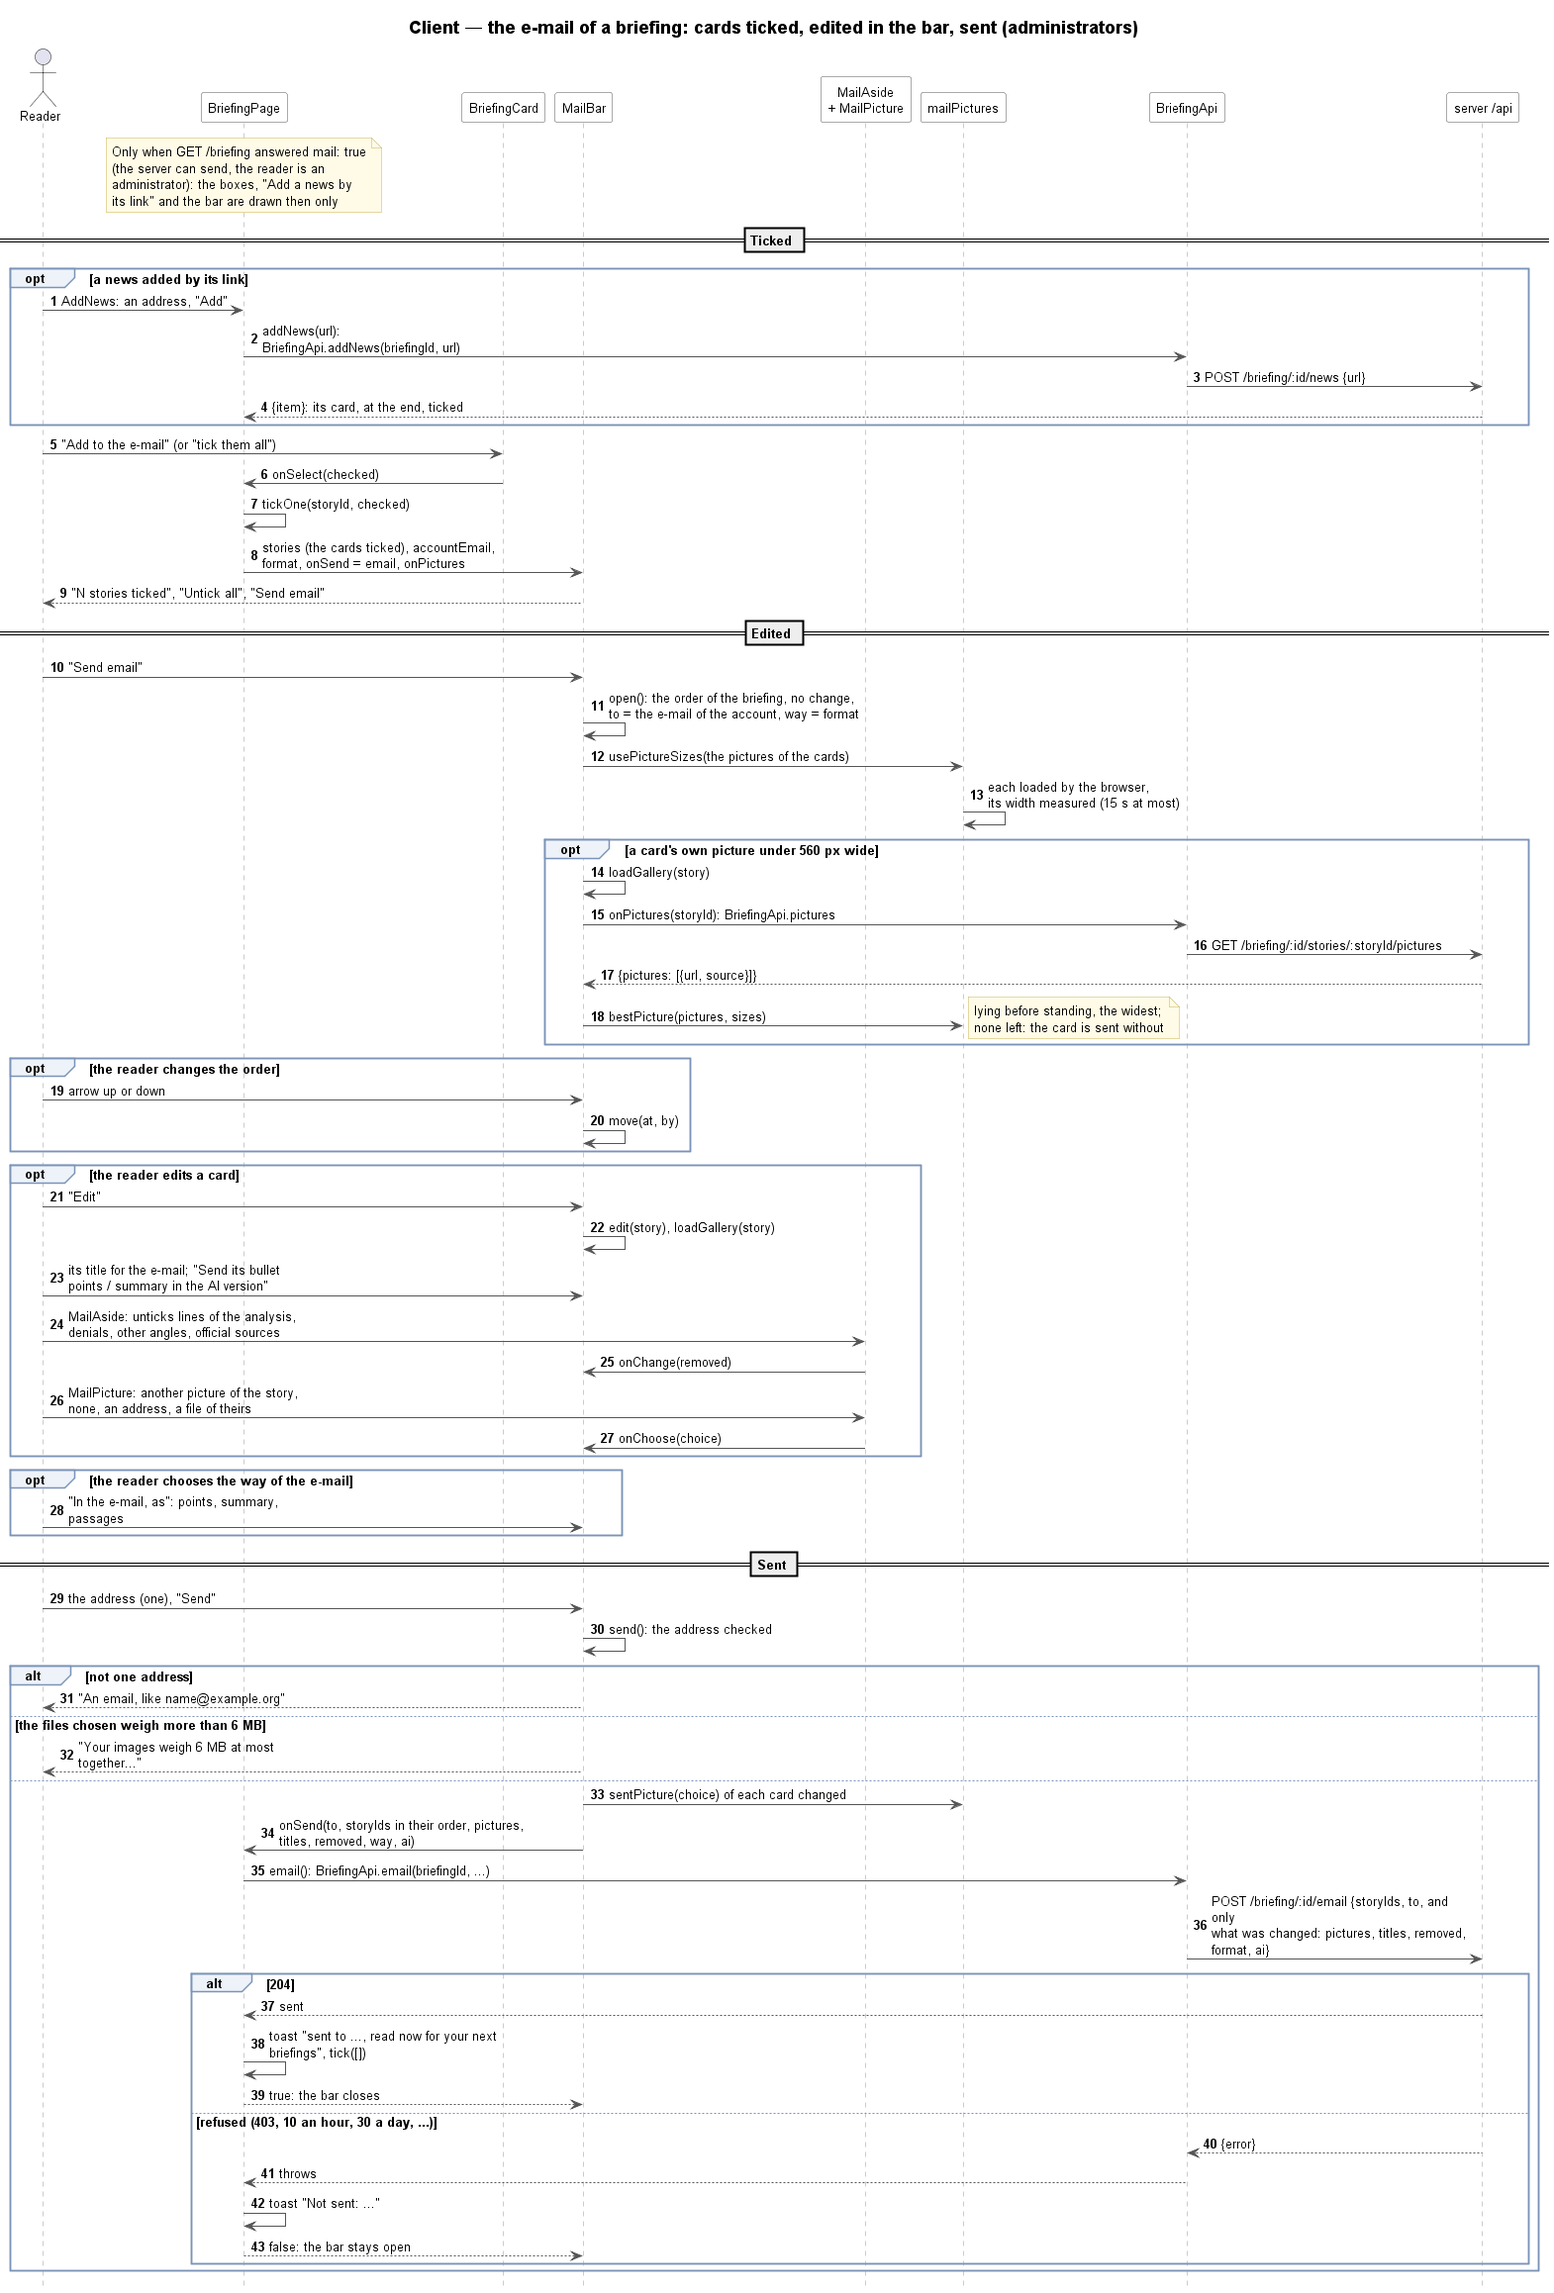
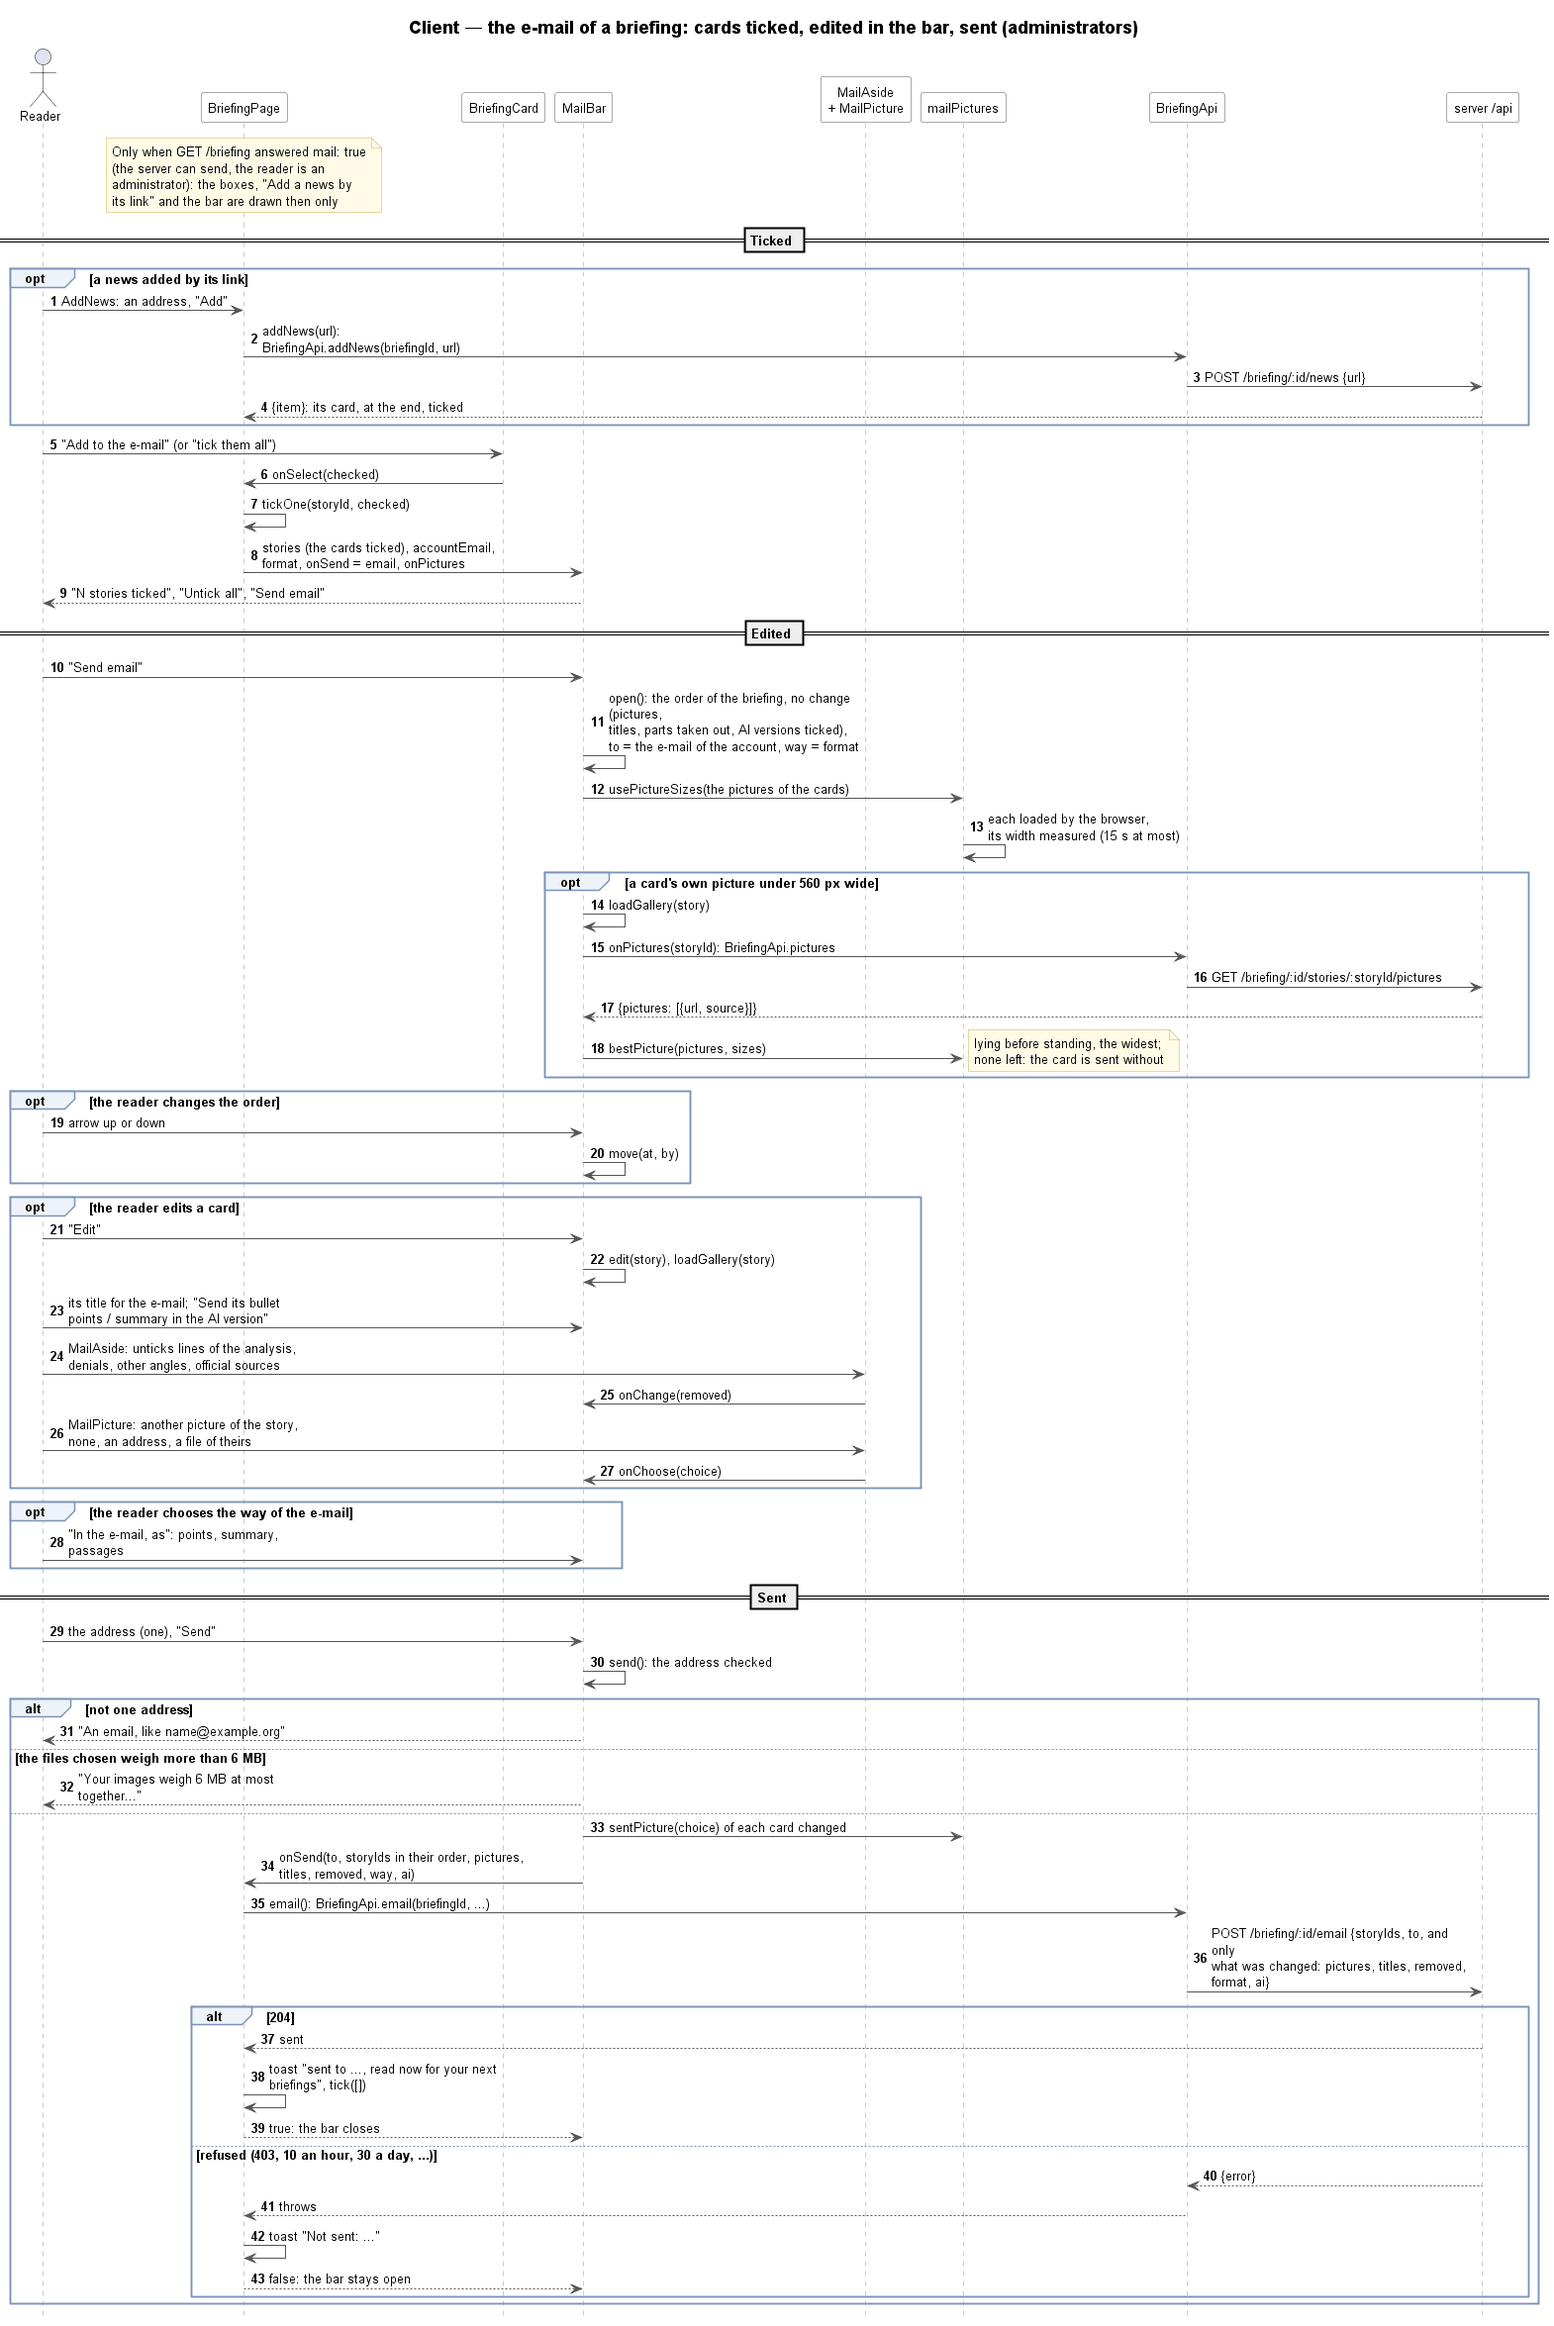
Docs of the client by feature, in the docs site of the server
docs/ is one folder per feature (accounts, search, profile, briefing, following), the use cases in
use-cases/, names in lowercase kebab-case. The site built from server/ (pnpm run docs) shows them
under "Client", with the parts of each feature documented from the click to the database.

diff --git a/README.md b/README.md
@@ -177,9 +177,13 @@ See `server/README.md`.
 ## Directory structure
 
 ```shell
-|-- docs
-|   |-- UML                          # use cases, class and sequence diagrams of the client (see Documentation)
-|   `-- design-mock                  # the mockups of the first sprints, before the editorial redesign
+|-- docs                             # README.md says what each folder holds (see Documentation)
+|   |-- accounts, search, profile, briefing, following
+|   |                                # one folder per feature: its pages and components, its sequences
+|   |-- Archive                      # the use cases planned at sprint 1 and their sprints 1-3, the dropped "last filter"
+|   |-- design-mock                  # the mockups of the first sprints, before the editorial redesign
+|   |-- use-cases
+|   `-- _style                       # the style the diagrams include
 |-- public                           # icons, the manifest and the picture of a shared link
 |-- src
 |   |-- App.jsx                      # the routes of the pages
@@ -222,27 +226,33 @@ See `server/README.md`.
 
 ## Documentation
 
-Every diagram is in `docs/UML/`, as source and as PNG next to it. Render them again with
-`java -jar plantuml.jar -charset UTF-8 docs/UML/*.puml`. The class and sequence diagrams of the
-client share `_style.iuml` and `_sequence.iuml`; a box is a React component, a hook or a module of
-`src/`, and the server is one box, its routes listed on it (the server's own diagrams are in
-`server/docs/UML/sprint4/`).
+The documentation of the client and of the server is one site, built from `server/` (`pnpm run docs`, see
+the README of the server): this folder is its part "Client". Every tool and its version is in
+`server/docs/tools.md`.
+
+The diagrams are in `docs/`, one folder per feature, as the ones of the server (`docs/README.md` says what
+each holds), as source and as PNG next to it. Render a folder again, from `client/`, with
+`java -jar plantuml.jar -charset UTF-8 "docs/briefing/*.puml"`. The class and sequence diagrams of the client
+include `docs/_style/class.iuml` and `sequence.iuml`; a box is a React component, a hook or a module of
+`src/`, and the server is one box, its routes listed on it. Each part of a feature (Briefing > Summary (IA),
+Search > Key passages...) is documented from the click to the database in its folder of `server/docs/`; the
+server's own diagrams, its database and the walk of the whole system from A to Z are there too.
 
 | File | What |
 |---|---|
-| `use-case-diagram-sprint4.puml` | the use cases as they stand (16.10.2026), in French, Invité, Membre and Administrateur, on two pages: `use-case-diagram-sprint4.png` (account, profiles, sources) and `use-case-diagram-sprint4_001.png` (search, briefing, e-mail, following). Its header lists what changed since the planned scope |
-| `use-case-diagram.puml` | the use cases planned at sprint 1, kept as they were |
-| `client-01-accounts.puml` | class diagram: login, signup, the session, the settings |
-| `client-02-search.puml` | class diagram: the search, its translations, the key passages, the saved searches |
-| `client-03-profiles.puml` | class diagram: the profiles, the AI questions, the interests, the projects, the sources |
-| `client-04-briefing.puml` | class diagram: the briefing page and its card |
-| `client-05-email.puml` | class diagram: the e-mail bar (MailBar, MailAside, MailPicture, mailPictures) |
-| `client-06-following.puml` | class diagram: what a profile follows and the page of a name |
-| `client-20-briefing-sequence.puml` | sequence: the briefing opened, started, followed every 3 s (8 s for its analysis), voted |
-| `client-21-email-sequence.puml` | sequence: cards ticked, edited in the bar, sent |
-| `login-sequence-diagram.puml`, `login_get_user-sequence-diagram.puml`, `login_logout-sequence-diagram.puml` | sequences, in French: the login, the reader asked when the app opens, the sign out |
-| `search-history-diagram_*.puml` | sequences, in French: a saved search created or replaced, loaded, deleted |
-| `user-preferences-diagram.puml` | the "last filter" of sprint 1, dropped: kept as it was planned, its header says what replaced it |
+| `use-cases/use-case-diagram.puml` | the use cases as they stand (16.10.2026), in French, Invité, Membre and Administrateur, on two pages: `use-case-diagram.png` (account, profiles, sources) and `use-case-diagram_001.png` (search, briefing, e-mail, following). Its header lists what changed since the planned scope |
+| `archive/use-case-diagram-planned.puml` | the use cases planned at sprint 1, kept as they were, with the PNG of sprints 1 to 3 |
+| `accounts/client-01-accounts.puml` | class diagram: login, signup, the session, the settings |
+| `search/client-02-search.puml` | class diagram: the search, its translations, the key passages, the saved searches |
+| `profile/client-03-profiles.puml` | class diagram: the profiles, the AI questions, the interests, the projects, the sources |
+| `briefing/client-04-briefing.puml` | class diagram: the briefing page and its card |
+| `briefing/email/client-05-email.puml` | class diagram: the e-mail bar (MailBar, MailAside, MailPicture, mailPictures) |
+| `following/client-06-following.puml` | class diagram: what a profile follows and the page of a name |
+| `briefing/client-20-briefing-sequence.puml` | sequence: the briefing opened, started, followed every 3 s (8 s for its analysis), voted |
+| `briefing/email/client-21-email-sequence.puml` | sequence: cards ticked, edited in the bar, sent |
+| `accounts/login-sequence-diagram.puml`, `login_get_user-sequence-diagram.puml`, `login_logout-sequence-diagram.puml` | sequences, in French: the login, the reader asked when the app opens, the sign out |
+| `search/saved-searches/search-history-diagram_*.puml` | sequences, in French: a saved search created or replaced, loaded, deleted |
+| `archive/user-preferences-diagram.puml` | the "last filter" of sprint 1, dropped: kept as it was planned, its header says what replaced it |
 
 ## Collaborate
 

diff --git a/docs/README.md b/docs/README.md
@@ -1,0 +1,31 @@
+# Documentation of the client
+
+Where to start: **[`use-cases/use-case-diagram.png`](use-cases/use-case-diagram.png)** (in French),
+what a guest, a member and an administrator can do, then
+[`use-case-diagram_001.png`](use-cases/use-case-diagram_001.png). How the whole system works, from A to Z,
+is told in [`server/docs/a-to-z/parcours-newsgenerator.md`](../../server/docs/a-to-z/parcours-newsgenerator.md).
+
+The folders follow the features of [`server/docs/`](../../server/docs/README.md). Here are the client's side of
+each: its pages, components, hooks and API modules (class diagrams, `client-0x`) and what a page does and asks the
+server (sequence diagrams, `client-2x` and the ones of sprint 1, in French). The part of a feature (Briefing >
+Summary (IA), Search > Key passages…), from the click to the database, is documented in its folder of
+`server/docs/`, its sequence diagram starting at the React component.
+
+| Folder | What |
+|---|---|
+| `use-cases/` | the use cases of today (16.10.2026), on two pages: [account, profiles, sources](use-cases/use-case-diagram.png), [search, briefing, e-mail, following](use-cases/use-case-diagram_001.png) |
+| `accounts/` | [`client-01-accounts`](accounts/client-01-accounts.png): login, signup, the session, the settings; the sequences of [the login](accounts/login-sequence-diagram.png), of [the reader asked when the app opens](accounts/login_get_user-sequence-diagram.png), of [the sign out](accounts/login_logout-sequence-diagram.png) |
+| `search/` | [`client-02-search`](search/client-02-search.png): the search, its translations, the key passages; `saved-searches/`: their sequences, [created or replaced](search/saved-searches/search-history-diagram_create_mod.png), [loaded](search/saved-searches/search-history-diagram_get.png), [deleted](search/saved-searches/search-history-diagram_delete.png) |
+| `profile/` | [`client-03-profiles`](profile/client-03-profiles.png): the profiles, the AI questions, the interests, the projects, the sources |
+| `briefing/` | [`client-04-briefing`](briefing/client-04-briefing.png): the page and its card; [`client-20-briefing-sequence`](briefing/client-20-briefing-sequence.png): started, followed every 3 s (8 s for its analysis), voted |
+| `briefing/email/` | [`client-05-email`](briefing/email/client-05-email.png): the e-mail bar; [`client-21-email-sequence`](briefing/email/client-21-email-sequence.png): cards ticked, edited, sent |
+| `following/` | [`client-06-following`](following/client-06-following.png): what a profile follows and the page of a name |
+| `design-mock/` | the mockups of the first sprints, before the editorial redesign |
+| `archive/` | the use cases planned at sprint 1 and their PNG of sprints 1 to 3; the "last filter", dropped |
+| `_style/` | the style every class (`class.iuml`) and sequence (`sequence.iuml`) diagram includes |
+
+Render the diagrams of a folder again, from `client/`:
+
+```bash
+java -jar plantuml.jar -charset UTF-8 "docs/briefing/*.puml"
+```
